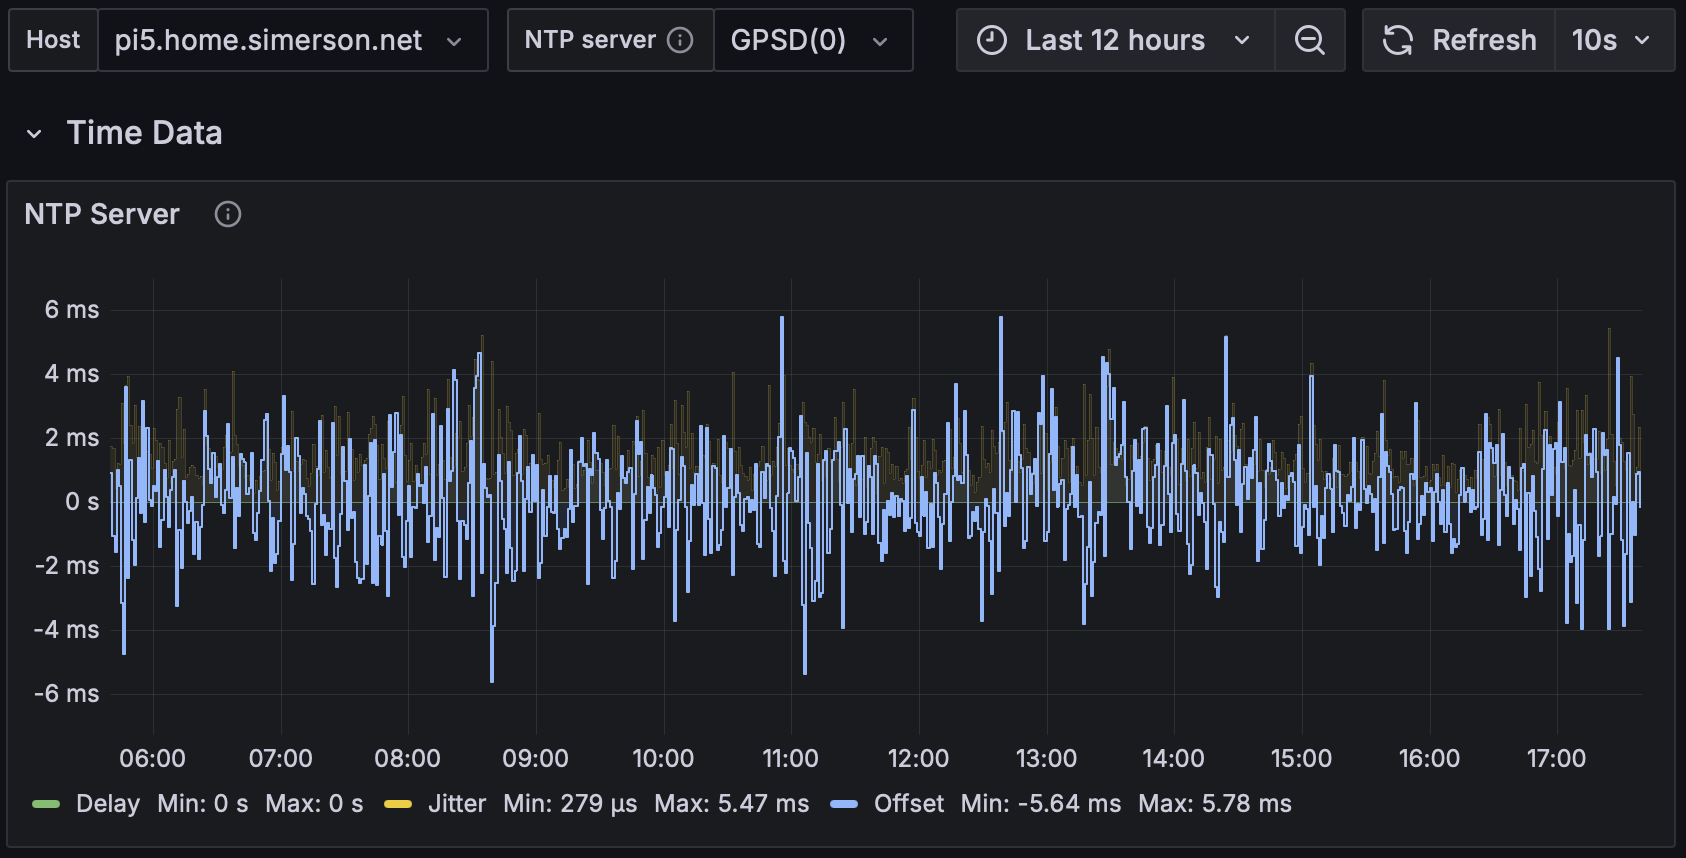
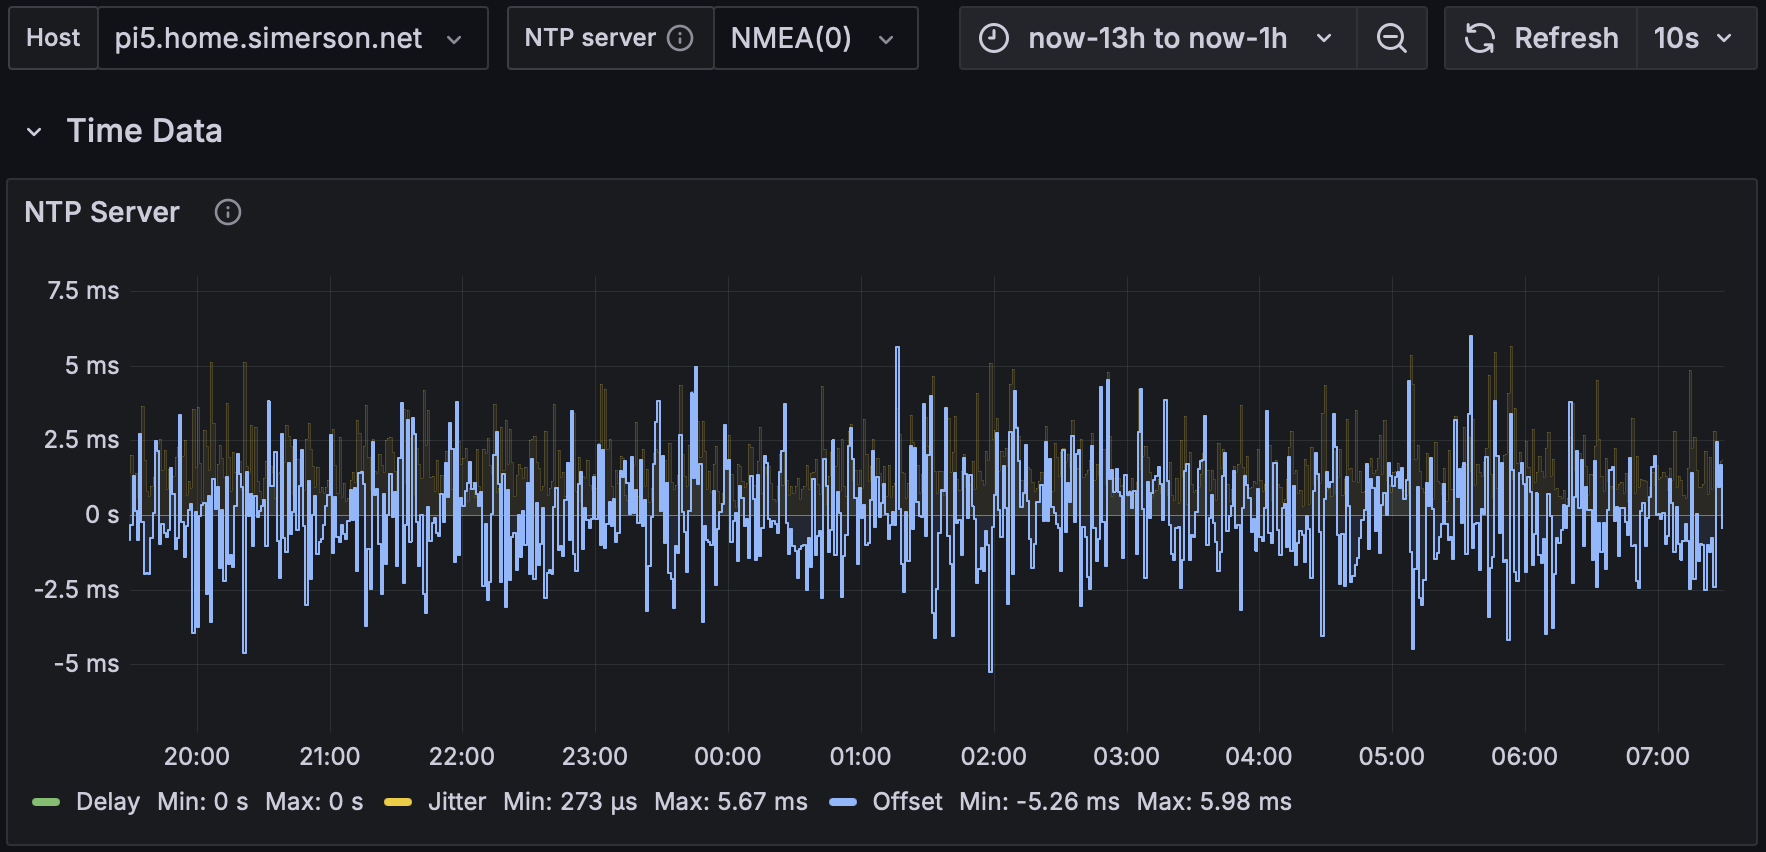
add more images

diff --git a/htdocs/accuracy.html b/htdocs/accuracy.html
@@ -112,9 +112,9 @@
       <tr><th class="grey">Pi 5</th><th>BSD</th><th>chrony</th>
           <td>0.000019500</td><td>0.002660</td><td>           </td><td>0.000001730</td><td>0.000003320</td><td></td></tr>
       <tr><th class="grey">Pi 5</th><th class="grey">BSD</th><th>sec</th>
-          <td>0.000022000</td><td>0.007110</td><td>           </td><td>0.000039000</td><td>0.000071000</td><td></td></tr>
+          <td>0.000022000</td><td>0.005980</td><td>           </td><td>0.000039000</td><td>0.000071000</td><td></td></tr>
       <tr><th class="grey">Pi 5</th><th class="grey">BSD</th><th>sec + gpsd</th>
-          <td>0.000015000</td><td>0.007410</td><td>           </td><td>0.000017000</td><td>0.000066000</td><td></td></tr>
+          <td>0.000015000</td><td>0.005780</td><td>           </td><td>0.000017000</td><td>0.000066000</td><td></td></tr>
       <tr><th class="grey">Pi 5</th><th class="grey">BSD</th><th>ntp</th>
           <td>0.000025000</td><td>0.005510</td><td>           </td><td>0.000032000</td><td>0.000070000</td><td></td></tr>
       <tr><th>&nbsp;</th><th></th><th></th><td></td>        <td></td><td></td><td></td><td></td><td></td></tr>
